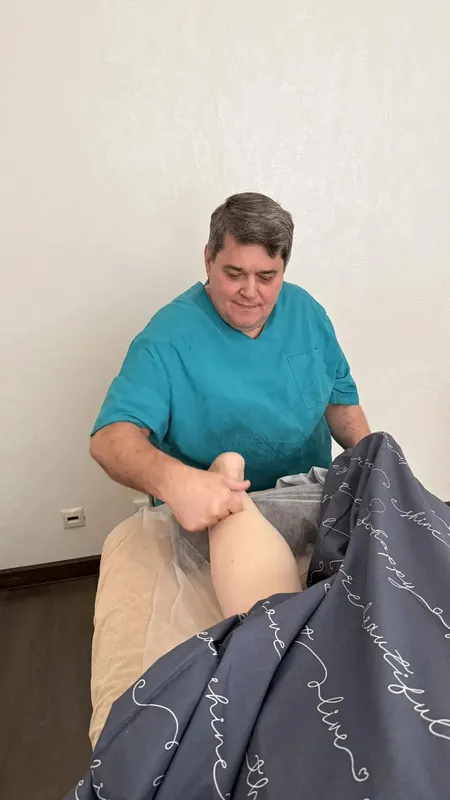
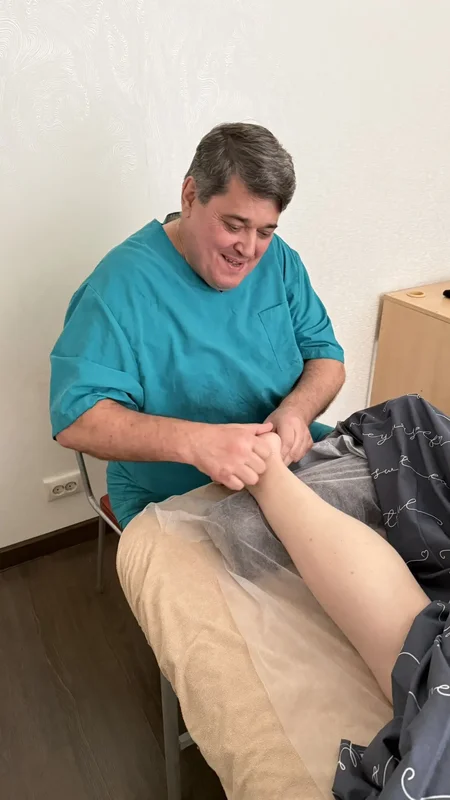
perf: convert all images to webp format

diff --git a/index.html b/index.html
@@ -56,7 +56,7 @@
     <div class="container">
         <div class="hero">
             <!-- Ты сказал: hero_avatar - master -->
-            <img src="assets/images/hero_avatar.png" alt="Андрей" class="avatar">
+            <img src="assets/images/hero_avatar.webp" alt="Андрей" class="avatar">
             <h1>Массажист Андрей.</h1>
             <p class="subtitle">Тело скажет вам спасибо.</p>
             <div class="btn-group">
@@ -91,14 +91,14 @@
                 </div>
             </div>
             <div class="zone-card">
-                <img loading="lazy" src="assets/images/diploma.jpg" alt="Корочка">
+                <img loading="lazy" src="assets/images/diploma.webp" alt="Корочка">
                 <div class="zone-text">
                     <h3>Диплом о переподготовке</h3>
                     <p>Официальное подтверждение квалификации.</p>
                 </div>
             </div>
             <div class="zone-card">
-                <img loading="lazy" src="assets/images/certificate.jpg" alt="Сертификат">
+                <img loading="lazy" src="assets/images/certificate.webp" alt="Сертификат">
                 <div class="zone-text">
                     <h3>Сертификат специалиста</h3>
                     <p>Подтверждение навыков классического массажа.</p>
@@ -154,7 +154,7 @@
             <h2>🏠 Кабинет</h2>
             <div class="zone-card">
                 <!-- Ты сказал: room - cabinet -->
-                <img loading="lazy" src="assets/images/room.png" alt="Кабинет">
+                <img loading="lazy" src="assets/images/room.webp" alt="Кабинет">
                 <div class="zone-text">
                     <h3>Уютная обстановка</h3>
                     <p>Полностью оборудованное место для проведения сеансов.</p>
@@ -170,7 +170,7 @@
                 <iframe loading="lazy" src="https://yandex.ru/map-widget/v1/?text=Московская%20обл.%20Дмитровский%20г.о.%20пос.%20Овсянниково%20ул.%20Соловьиная%20роща%20д.%203&z=16"></iframe>
             </div>
             <div class="zone-card" style="margin-top: 15px;">
-                <img loading="lazy" src="assets/images/gate.jpg" alt="Ворота">
+                <img loading="lazy" src="assets/images/gate.webp" alt="Ворота">
                 <div class="zone-text">
                     <h3>Вход и въезд</h3>
                     <p>Калитка для входа и ворота для автомобиля.</p>
